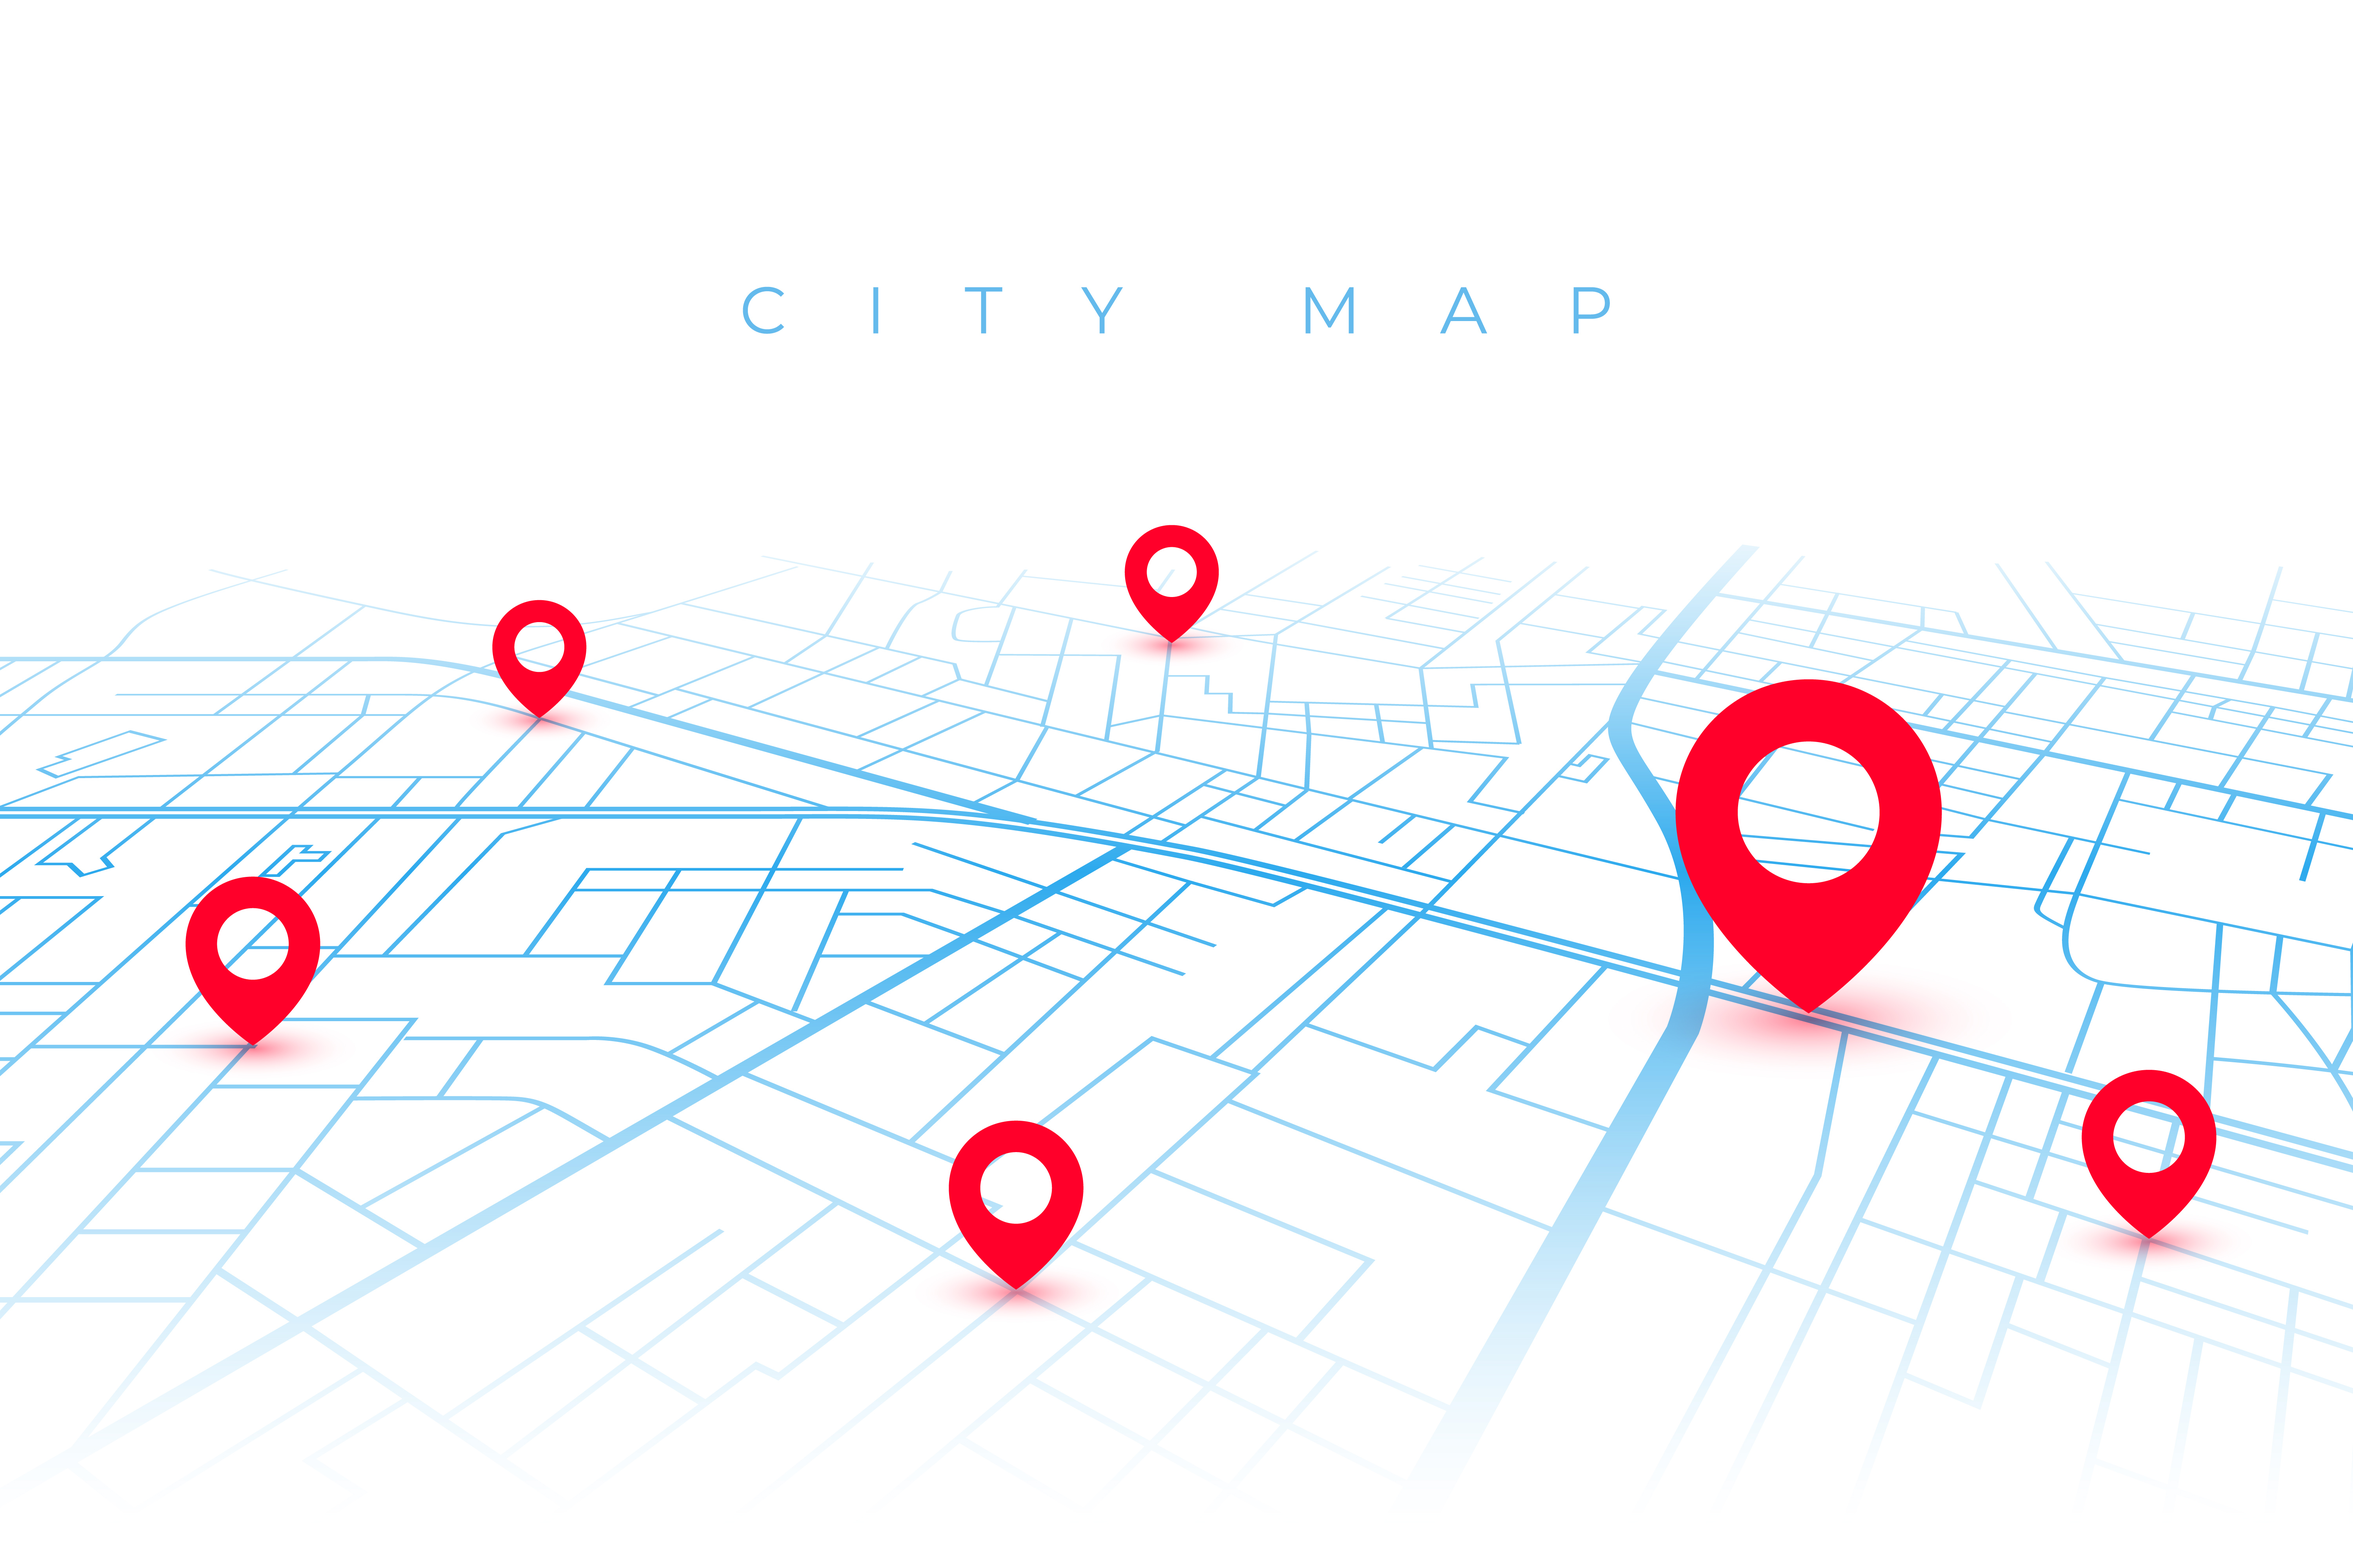
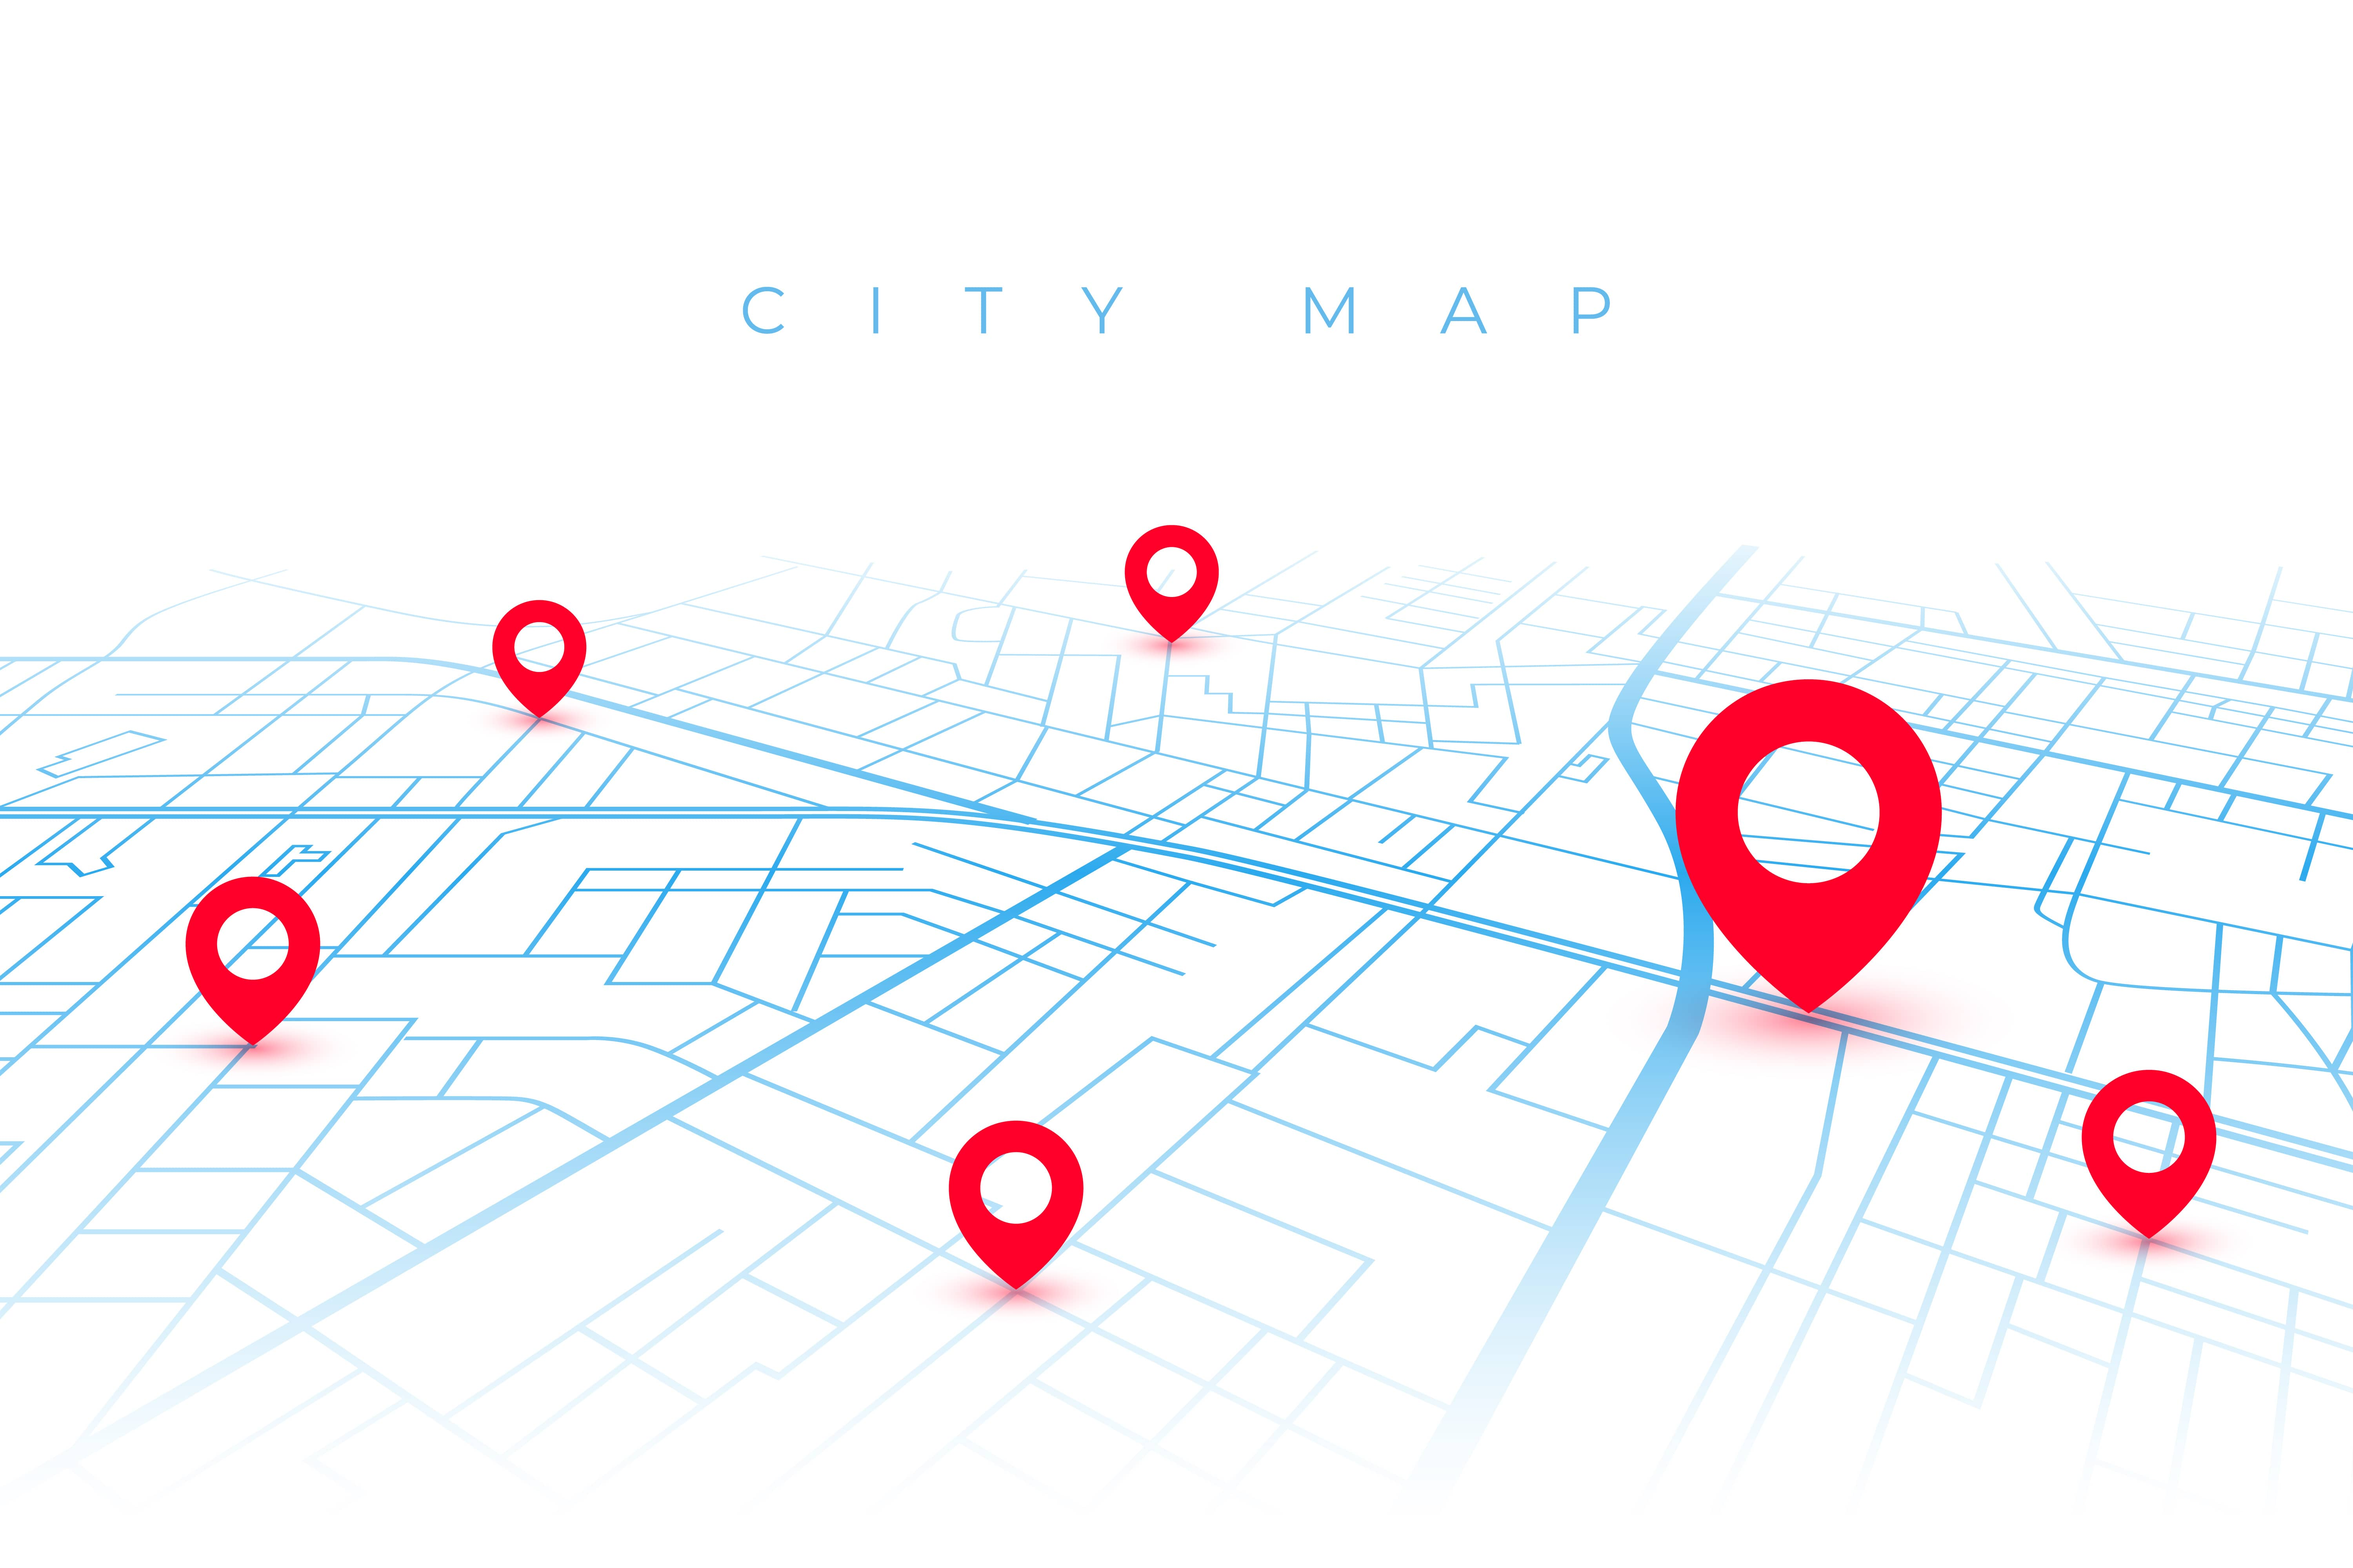
image size updated

diff --git a/next.config.ts b/next.config.ts
@@ -1,27 +1,57 @@
 import type { NextConfig } from "next";
 
 const nextConfig: NextConfig = {
-  async rewrites() {
+  async redirects() {
     return [
+      // 1. HTTP se HTTPS aur www se non-www redirects (Permanent 301)
+      {
+        source: '/http://arheatingservice.co.uk/:path*',
+        destination: 'https://arheatingservice.co.uk/:path*',
+        permanent: true,
+      },
+      {
+        source: '/http://www.arheatingservice.co.uk/:path*',
+        destination: 'https://arheatingservice.co.uk/:path*',
+        permanent: true,
+      },
+      {
+        source: '/https://www.arheatingservice.co.uk/:path*',
+        destination: 'https://arheatingservice.co.uk/:path*',
+        permanent: true,
+      },
+      // 2. Malformed / concatenated internal links fix
+      {
+        source: '/https:/arheatingservice.co.uk/:path*',
+        destination: 'https://arheatingservice.co.uk/:path*',
+        permanent: true,
+      },
+      // 3. Service pages aur old routes
+      {
+        source: '/megaflo',
+        destination: '/services/megaflo',
+        permanent: true,
+      },
       {
         source: '/Services/appliance-installation',
-        destination: '/Services/appliance-installation',
+        destination: '/services/appliance-installation',
+        permanent: true,
       },
       {
         source: '/Services/landlord-certificate',
-        destination: '/Services/landlord-certificate',
+        destination: '/services/landlord-certificate',
+        permanent: true,
       },
+    ];
+  },
+  async rewrites() {
+    return [
       {
         source: '/Services/centeral-heating',
-        destination: '/Services/centeral-heating',
+        destination: '/services/central-heating', // Spelling correction
       },
       {
         source: '/Services/underfloor-installation',
-        destination: '/Services/underfloor-installation',
-      },
-      {
-        source: '/megaflo',
-        destination: '/megaflo',
+        destination: '/services/underfloor-installation',
       },
     ];
   },

diff --git a/app/admin/blogs/page.js b/app/admin/blogs/page.js
@@ -77,11 +77,6 @@ export default function AdminBlogs() {
   const handleImageUpload = (e) => {
     const file = e.target.files[0];
     if (file) {
-      if (file.size > 2 * 1024 * 1024) {
-        showToast('File size too large! Upload an image under 2MB.', 'error');
-        e.target.value = '';
-        return;
-      }
       const reader = new FileReader();
       reader.onloadend = () => {
         setFormData((prev) => ({ ...prev, image: reader.result }));
@@ -306,7 +301,7 @@ export default function AdminBlogs() {
             </div>
  
             <div>
-              <label style={{ color: '#222222' }}><b>Cover Image (Max 2MB):</b></label>
+              <label style={{ color: '#222222' }}><b>Cover Image:</b></label>
               <input type="file" accept="image/*" onChange={handleImageUpload} style={{ marginTop: '8px', display: 'block', color: '#111111' }} />
              
               {/* IMAGE PREVIEW SECTION */}

diff --git a/app/blogs/page.jsx b/app/blogs/page.jsx
@@ -66,7 +66,7 @@ const BlogGrid = () => {
   return (
     <div className="bg-slate-100 py-20 px-6">
       <div className="text-center mb-12">
-        <h2 className="text-4xl font-bold text-[#027cc1] mb-2">Our Latest Insights</h2>
+        <h1 className="text-4xl font-bold text-[#027cc1] mb-2">Our Latest Insights</h1>
         <div className="w-20 h-1.5 bg-orange-500 mx-auto rounded-full"></div>
       </div>
       

diff --git a/app/Services/megaflo/page.jsx b/app/Services/megaflo/page.jsx
@@ -31,7 +31,7 @@ export default function ServicesAndFAQ() {
       {/* Hero Section */}
       <section className="relative w-full h-[700px] flex items-center justify-center overflow-hidden">
         <NextImage
-          src="/3.jpg"
+          src="/megaflo.jpg"
           alt="Heating installation background"
           fill
           priority

diff --git a/app/Services/underfloor-heating/page.jsx b/app/Services/underfloor-heating/page.jsx
@@ -13,7 +13,7 @@ const serviceDetails = [
   {
     title: "Is underfloor heating easy to run?  ",
     desc: "We set up the controls so you can pick the warmth you want with ease. Pair the system with a smart control and you can run your heat from your phone.  ",
-    img: "/undergroundheating3.png"
+    img: "/undergroundheating3.jpg"
   }
 ];
 

diff --git a/app/privacy-policy/page.jsx b/app/privacy-policy/page.jsx
@@ -18,7 +18,7 @@ export default function PrivacyPolicyPage() {
       {/* Hero Section */}
       <section className="relative w-full h-[500px] flex items-center justify-center overflow-hidden">
    <Image
-  src="/conditions.jpg"
+  src="/privacy-policy.jpg"
   alt="Heating installation background"
   fill
   priority

diff --git a/app/terms/page.jsx b/app/terms/page.jsx
@@ -22,7 +22,7 @@ export default function TermsPage() {
      {/* Hero Section */}
            <section className="relative w-full h-[700px] flex items-center justify-center overflow-hidden">
      <Image
-  src="/conditions.jpg"
+  src="/terms-conditions.jpg"
   alt="Heating installation background"
   fill
   priority
